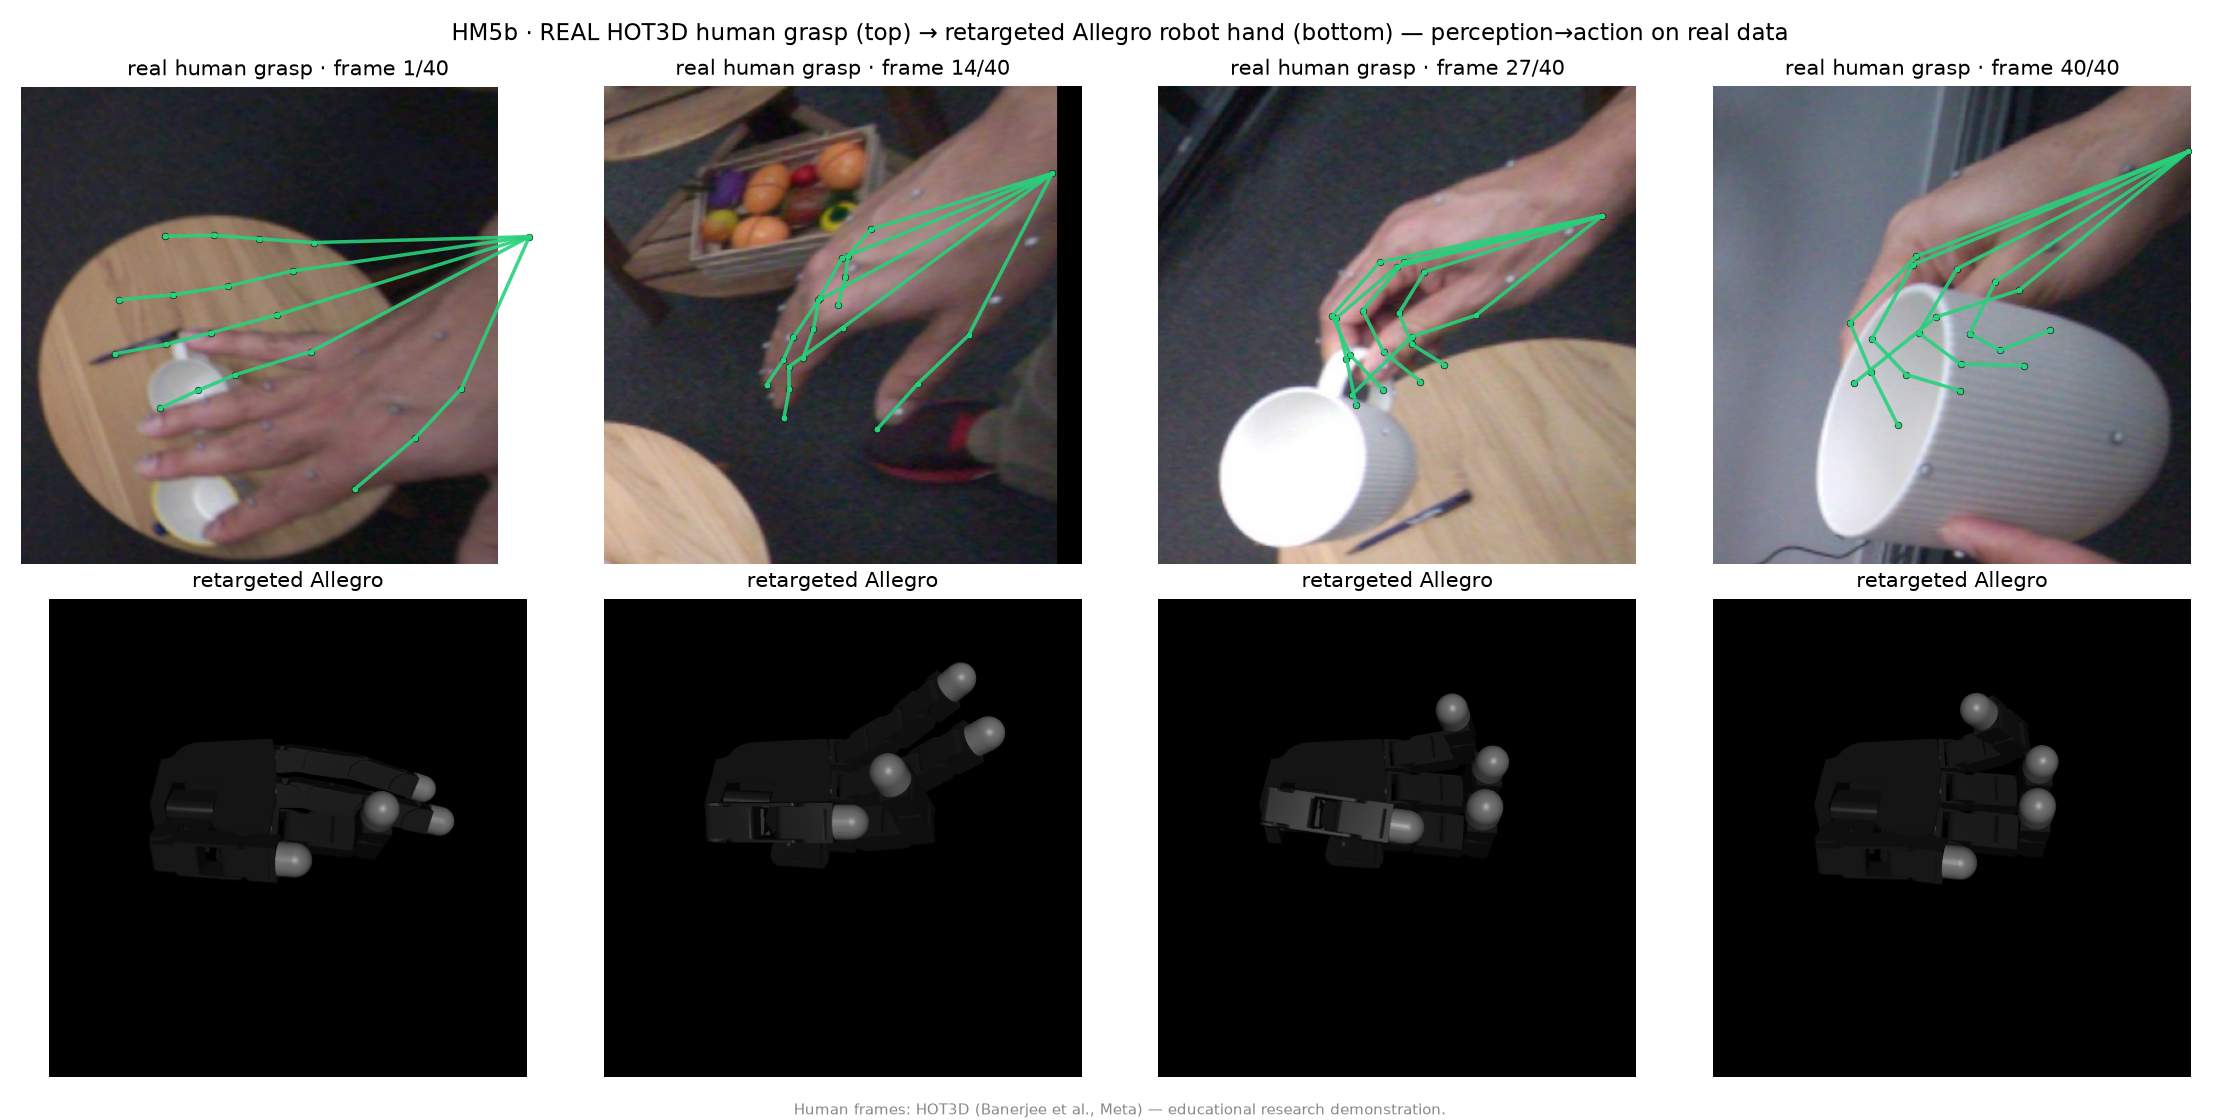
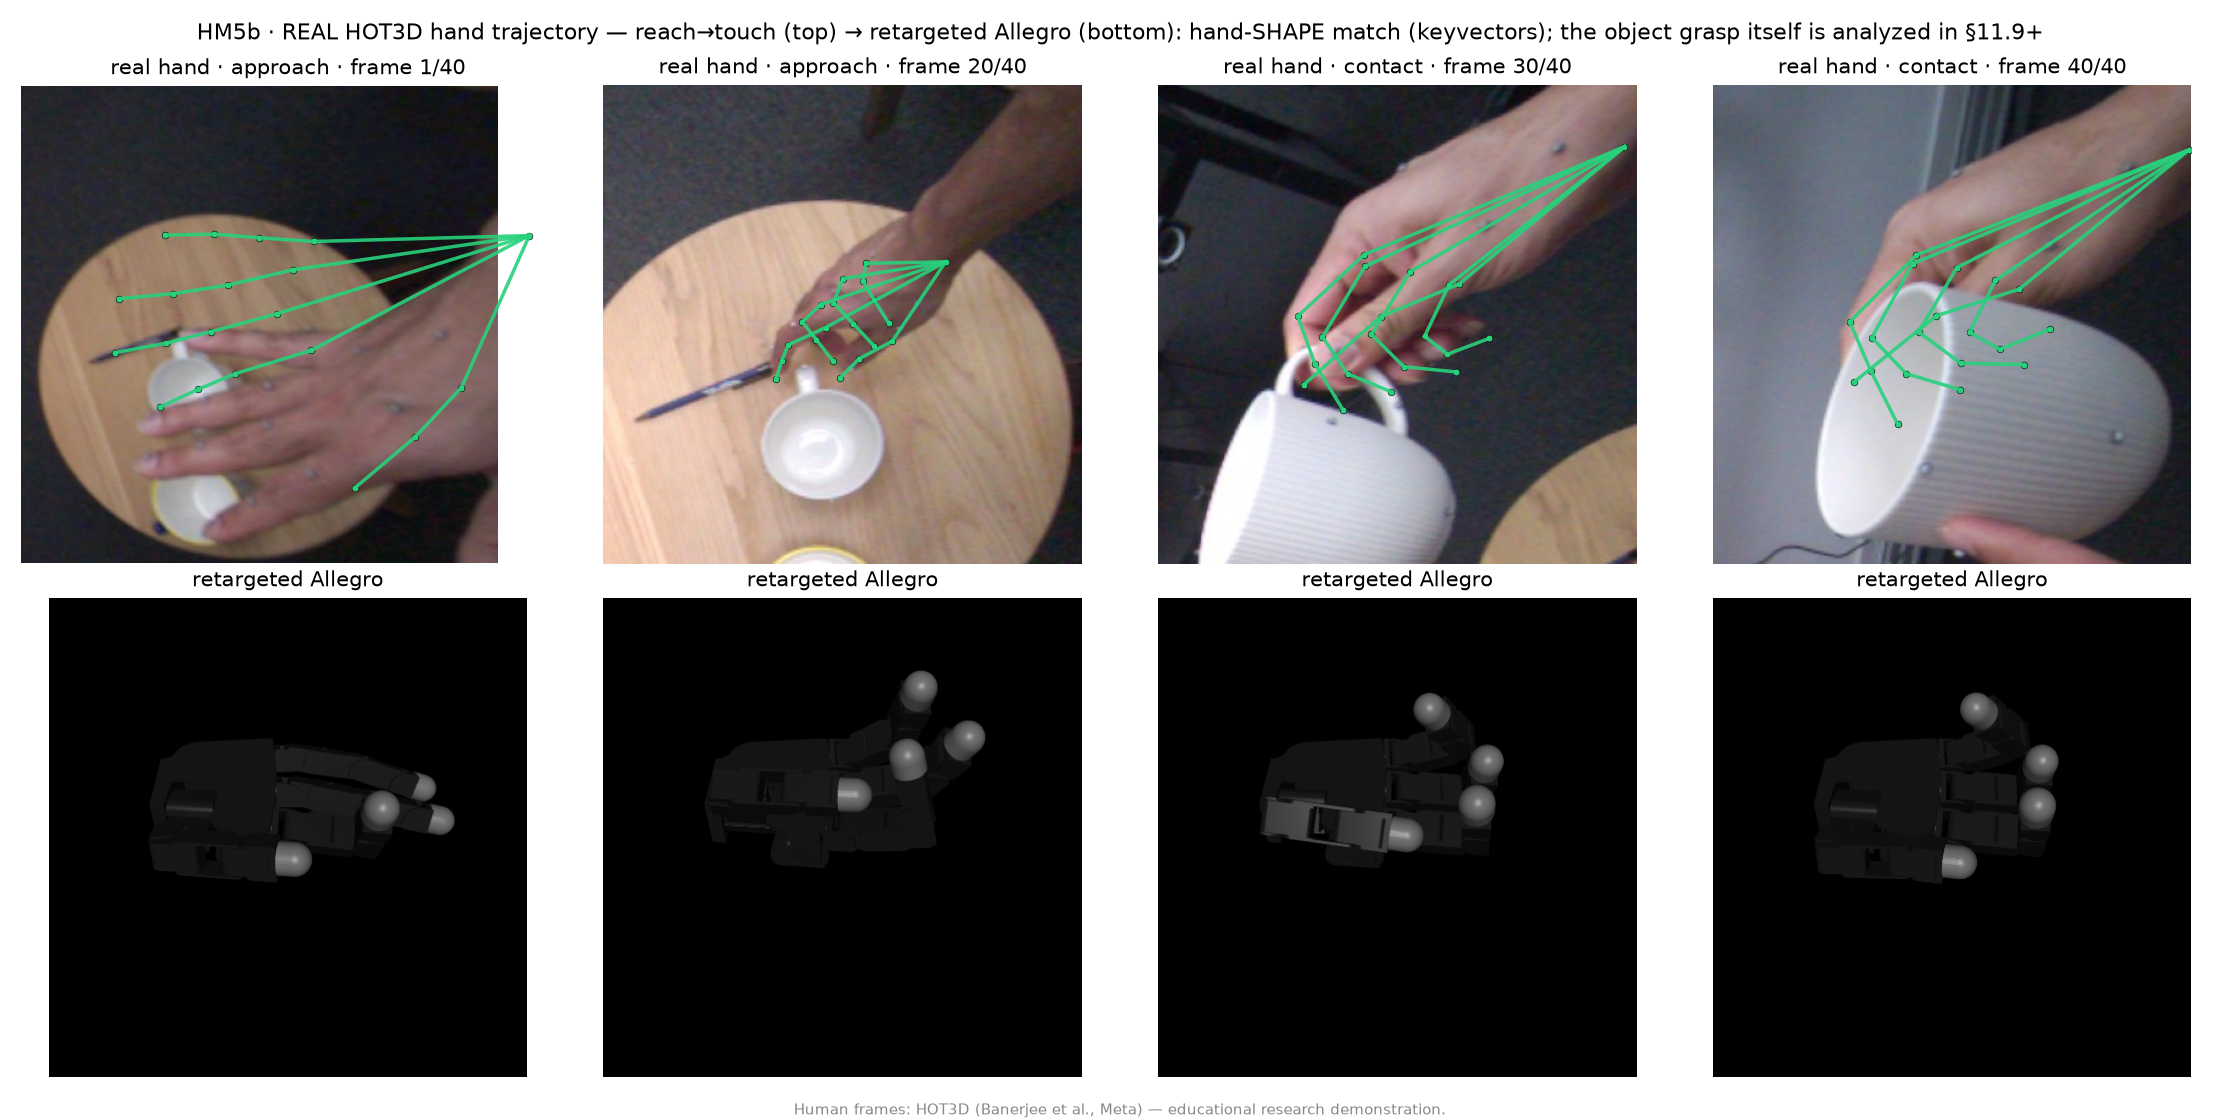
Fix hand↔object penetration in grasp synthesis (§11.8–11.12 honest correction)
The §11.10–11.12 grasps only constrained fingertips + force-closure + self-
collision; the mug was a visual-only geom and the objective never penalized the
whole hand penetrating the object. So the reported ε +0.05 "force-closure" was
inflated by ~2mm of hand-into-mug penetration.

Add the DexGraspNet-style E_pen term (whole-hand non-penetration). Corrected,
penetration-free results (verified visually, not just numerically):
- §11.10/11.11: gap 17mm, ε +0.031 (marginal force-closure), 0mm penetration
- §11.12: arm IK residual ~0, executes ε +0.031 grasp, 0mm penetration
Also reframe §11.8: frames 1–20 are the reach/approach (hand 60→2cm from mug),
not a grasp — it matches hand SHAPE; the object grasp is §11.9+. Added an honest
correction admonition to §11.10.

diff --git a/human_pose.md b/human_pose.md
@@ -473,13 +473,13 @@ mug 하나로는 "이 파이프라인이 그 컵에만 되는 것 아니냐"는 
 
 ### 11.8 실제 human grasp → 로봇 핸드 리타게팅 (HM5 × 실데이터 — 트랙의 종착점)
 
-**왜 이걸 하나 (전 트랙을 하나로 잇는 마무리).** §5(HM5)는 사람 손 → Allegro 로봇 핸드 리타게팅을 했지만 입력이 **합성 MANO open→fist**였다. 이제 §11의 **실제 HOT3D 인간 grasp**(mug를 잡는 실제 손, 40프레임)을 그 리타게팅에 그대로 물려 — **perception(실 egocentric 손 pose) → action(로봇 핸드가 같은 grasp 실행)** 을 실데이터로 닫는다. 이게 JD의 "Human-to-Robot Motion Retargeting"을 실데이터로 증명하는 지점이다.
+**왜 이걸 하나 (전 트랙을 하나로 잇는 마무리).** §5(HM5)는 사람 손 → Allegro 로봇 핸드 리타게팅을 했지만 입력이 **합성 MANO open→fist**였다. 이제 §11의 **실제 HOT3D 손 궤적**(mug로 **접근→접촉**하는 40프레임)을 그 리타게팅에 그대로 물려 — **perception(실 egocentric 손 pose) → action(로봇 핸드가 손 모양을 따라감)** 을 실데이터로 잇는다. 이게 JD의 "Human-to-Robot Motion Retargeting"을 실데이터로 보이는 지점이다. *정직: 이 40프레임은 깔끔한 단일 grasp이 아니라 손이 멀리서(프레임 1–20, mug에서 60→2cm) 다가와 후반(21–40)에 접촉하는 궤적이다 — 여기서 맞추는 건 매 프레임의 **손 모양(keyvector)** 이고, 물체를 실제로 "쥐는" grasp 자체(접촉·force-closure)는 §11.9–11.12에서 다룬다.*
 
 **방법 (HM5 그대로, 입력만 실데이터).** HOT3D 21-랜드마크를 HM5의 **8 keyvector**(검지·중지·약지·엄지의 medial+tip, palm=손목)에 매핑 → 첫 프레임에서 Kabsch 정렬 + 스케일 → 프레임마다 **관절限 bound L-BFGS-B + 자기충돌 패널티 + smoothing**(§5와 동일 파이프라인). 즉 합성 궤적 자리에 **실제 사람 손 궤적**을 꽂았다.
 
 <img src="_static/hm5b_realgrasp.png" alt="real HOT3D human grasp retargeted to Allegro robot hand" style="width:100%;max-width:1280px;border-radius:8px">
 
-*위=실제 HOT3D 인간 손이 mug를 open→grasp(4프레임). 아래=리타게팅된 Allegro가 같은 open→grasp을 따라 손가락을 오므린다.*
+*위=실제 HOT3D 손이 mug로 접근(프레임 1·20)→접촉(30·40). 아래=리타게팅된 Allegro가 같은 손 모양을 따라 손가락을 오므린다.*
 
 | 지표 (실제 grasp 40프레임) | 값 |
 |---|---|
@@ -488,7 +488,7 @@ mug 하나로는 "이 파이프라인이 그 컵에만 되는 것 아니냐"는 
 | joints within limits | **100%** |
 | self-collision | **0 / 40** |
 
-**핵심:** 합성이 아니라 **실제 사람의 grasp**을 로봇 핸드가 따라 하고, 관절限·자기충돌 없이(feasible) 실행 가능한 궤적이 나온다. 잔차 65mm는 §5(합성 58mm)보다 큰데 — 실제 손은 자세 변화가 크고 **5→4 손가락 cross-morphology**가 겹쳐서다(그래서 절대위치가 아닌 keyvector를 맞춤). *이어짐: §11.7의 "어느 손끝이 물체에 닿나"(접촉맵)를 이 리타게팅의 제약으로 넣으면 로봇이 **물체까지 고려한 grasp**을 재현할 수 있다(확장 가능).* 
+**핵심:** 합성이 아니라 **실제 사람 손 궤적**을 로봇 핸드가 따라 하고, 관절限·자기충돌 없이(feasible) 실행 가능한 관절 궤적이 나온다. 잔차 65mm는 §5(합성 58mm)보다 큰데 — 실제 손은 자세 변화가 크고 **5→4 손가락 cross-morphology**가 겹쳐서다(그래서 절대위치가 아닌 keyvector를 맞춤). **여기까지는 손 모양만 맞춘 것** — 로봇 손끝이 실제 mug에 닿거나 안정적으로 쥐는지는 보장되지 않는다. *이어짐: §11.7의 "어느 손끝이 물체에 닿나"(접촉맵)를 제약으로 넣어 §11.9–11.12에서 **물체까지 고려한 grasp**으로 확장한다.* 
 
 **→ 트랙 전체가 하나로 닫힌다:** 실 egocentric 이미지(HM6) → 우리 MANO 3D 복원(§11.4, PA 3.9mm) → 실물체 접촉(§11.7) → **로봇 핸드 실행(§11.8)**. 즉 *sensor → 3D perception → contact → embodied action* 의 spatial-intelligence 파이프라인을 시뮬(HM0–HM5)에서 세우고 실데이터로 관통했다.
 
@@ -536,18 +536,24 @@ $$\min_{q,\;t_{\text{off}}}\; w_{\text{con}}\!\!\sum_{f\in\mathcal C}\big\lVert 
 
 <img src="_static/hm5d_graspsyn.png" alt="grasp synthesis: reachable contact re-planning achieves force-closure" style="width:100%;max-width:1280px;border-radius:8px">
 
-*좌=실제 human grasp(frame 25). 중=§11.9 사람 접촉 복사(손가락이 벌어져 mug를 못 쥠). 우=§11.10 손 42mm 재배치 + 도달 가능 접촉 재계획(빨간•=접촉점) → mug를 감싸 쥔다.*
+*좌=실제 human grasp(frame 25). 중=§11.9 사람 접촉 복사(손가락이 벌어져 mug를 못 쥐고 mesh를 파고듦). 우=§11.10 손 33mm 재배치 + 도달 가능 접촉 재계획(빨간•=접촉점) → 손끝이 표면 밖에서 감싼다.*
+
+```{admonition} 정직한 정정 — "관통" 버그 (2026-08-05)
+:class: warning
+이 절의 초기 버전은 **손끝 3개만** 표면에 붙이고 force-closure만 최적화했다. 그런데 **손바닥·손가락 마디가 물체를 파고드는 것(hand↔object 관통)을 목적함수가 전혀 막지 않았고**, 렌더 속 mug는 시각 전용 geom이라 물리 충돌도 없었다. 그래서 처음 보고한 **ε +0.054는 손이 mug를 ~2mm 파고들어 얻은 부풀린 값**이었다. DexGraspNet식 관통 패널티 $E_{\text{pen}}$(손 body들이 물체 안에 들어가면 벌점)을 추가해 다시 풀었다. 아래 수치는 **관통 0mm를 강제한 물리적으로 유효한** 결과다.
+```
 
 | 지표 (grasp-moment frame, 3지 precision) | §11.9 사람 접촉 복사 | §11.10 grasp 합성 |
 |---|---|---|
-| 손끝 → mug 표면 gap | 31.1 mm | **14.7 mm** |
-| force-closure $\varepsilon$ | −0.121 (**불가 ✘**) | **+0.054 (안정 ✔)** |
+| 손끝 → mug 표면 gap | 31.1 mm | **16.8 mm** |
+| force-closure $\varepsilon$ | −0.121 (**불가 ✘**) | **+0.031 (안정 ✔, 여유는 작음)** |
+| **물체 관통** | 1.7 mm | **0.0 mm** |
 | self-collision | 0 | 0 |
-| 손 재배치량 $\lVert t_{\text{off}}\rVert$ | — | 42 mm |
+| 손 재배치량 $\lVert t_{\text{off}}\rVert$ | — | 33 mm |
 
-**핵심:** 사람 접촉점을 복사하면 gap 31mm에 force-closure도 **실패**(ε<0, 못 잡음). 반면 **손을 42mm 재배치하고 접촉점을 로봇에 맞게 다시 고르면** gap이 15mm로 줄고 ε가 **양수로 바뀌어 실제로 잡을 수 있는 grasp**이 된다 — 무충돌 유지. §11.9가 증명한 벽을 §11.10이 **넘는 방법**(hand placement + contact re-planning)을 실데이터 물체에서 보여준 것이다.
+**핵심:** 사람 접촉점을 복사하면 gap 31mm·force-closure **실패**(ε −0.12)에 물체까지 파고든다. 반면 **손을 33mm 재배치하고 접촉점을 로봇에 맞게 다시 고르고 관통을 금지하면** gap 17mm·ε가 **양수(+0.031)로 바뀌어 물리적으로 유효한(관통 0mm) 잡을 수 있는 grasp**이 된다. §11.9가 증명한 벽을 §11.10이 **넘는 방법**(hand placement + contact re-planning + 비관통)을 실데이터 물체에서 보여준 것.
 
-*정직: 잔차 15mm는 3지·고정 손가락 길이·곡면 mug의 한계(완벽히 표면에 붙진 않음)지만 force-closure는 성립한다. 여기선 손 배치를 3-DoF 병진으로만 근사했다(회전·arm IK 추가하면 더 개선). 이것이 GraspIt·DexGraspNet·contact-GraspNet 계열 grasp 합성의 축소판이다.*
+*정직: ε +0.031은 **양수지만 여유가 작다** — force-closure 경계 바로 위의 marginal grasp이다(관통을 허용했을 때의 +0.054는 허수였다). 잔차 gap 17mm는 3지·고정 손가락 길이·곡면 mug의 한계. 손 배치는 3-DoF 병진 근사(§11.11에서 회전까지, §11.12에서 arm IK). 이것이 GraspIt·DexGraspNet·contact-GraspNet 계열 grasp 합성의 축소판이다.*
 
 **→ 트랙의 완결:** HM5(합성 retarget) → §11.8(실 grasp retarget) → §11.9(접촉 제약 + 벽 발견) → **§11.10(grasp 합성으로 벽 돌파)**. perception→action이 다른 morphology로 넘어갈 때 필요한 것 — 3D 인식, 접촉 이해, 도달성·안정성 최적화 — 을 실데이터로 관통했다.
 
@@ -555,18 +561,18 @@ $$\min_{q,\;t_{\text{off}}}\; w_{\text{con}}\!\!\sum_{f\in\mathcal C}\big\lVert 
 
 **왜 이걸 하나 (§11.10을 더 밀어보기).** §11.10은 손을 3-DoF **병진**으로만 옮겼다. 자연스러운 다음 수는 **손목 회전까지** 더한 full 6-DoF 손 배치다 — 손이 물체에 맞게 자세를 잡으면 더 좋은 grasp이 나올 것 같았다. 그래서 손가락 관절 $q$ + 손 배치 $(t_{\text{off}}, r_{\text{off}})$(병진+축각 회전, 물체 중심 기준)를 함께 최적화하고, 여러 초기 손목 방향에서 multi-start로 후보를 모았다.
 
-**그런데 예상과 다른 것을 발견했다 — "무엇을 최적화하느냐"가 핵심이었다.** 회전을 자유롭게 두고 **접촉 gap을 최소화**하면 손끝이 물체에 더 바짝 붙는다(gap 14→**11mm**). 그런데 그렇게 고른 grasp은 **force-closure ε가 음수(−0.003)로 떨어져 실제로는 못 잡는다** — 손을 28° 기울여 접촉점들이 한쪽으로 몰렸기 때문이다. 반대로 같은 후보들을 **force-closure ε로 정렬**하면 gap은 조금 크지만(14mm) **ε=+0.054로 안정적으로 잡는 grasp**이 선택된다.
+**발견 — "무엇을 최적화하느냐"가 핵심이었다** (모든 후보는 관통 0mm 강제). 회전을 자유롭게 두고 **접촉 gap을 최소화**하면 손끝이 더 바짝 붙지만(gap 14mm) force-closure 여유가 작다(ε +0.013). 같은 후보를 **force-closure ε로 정렬**하면 gap은 조금 크지만(17mm) **ε +0.031로 2.3배 더 안정적인 grasp**이 선택된다. 즉 가장 바짝 붙는 게 가장 안정적인 게 아니다.
 
 <img src="_static/hm5e_6dof.png" alt="6-DoF grasp synthesis: ranking by gap vs by force-closure gives different grasps" style="width:100%;max-width:1280px;border-radius:8px">
 
-*좌=실제 grasp. 중=6-DoF 후보 중 **gap 최소**(가장 바짝 붙지만 ε<0, 불안정 ✘). 우=같은 후보 중 **force-closure ε 최대**(gap은 크지만 안정 ✔). 눈으로는 둘이 비슷해 보이지만 안정성은 정반대다.*
+*좌=실제 grasp. 중=6-DoF 후보 중 **gap 최소**(가장 바짝, 안정 여유 작음). 우=같은 후보 중 **force-closure ε 최대**(gap은 크지만 가장 안정). 둘 다 관통 0mm·force-closure ✔지만 안정 여유는 우측이 2.3배.*
 
-| 6-DoF 후보 (8개, grasp-moment frame) | gap | force-closure ε | 손 회전 |
+| 6-DoF 후보 (8개, 관통 0mm, grasp-moment frame) | gap | force-closure ε | 손 회전 |
 |---|---|---|---|
-| **gap 최소**로 선택 (가장 바짝) | **10.9 mm** | −0.003 (**못 잡음 ✘**) | 28° |
-| **force-closure ε 최대**로 선택 | 14.4 mm | **+0.054 (안정 ✔)** | 0° |
+| **gap 최소**로 선택 (가장 바짝) | **14.3 mm** | +0.013 (✔, 여유 작음) | 15° |
+| **force-closure ε 최대**로 선택 | 16.8 mm | **+0.031 (✔, 가장 안정)** | 0° |
 
-**핵심 교훈 두 가지.** ① **접촉 거리(gap)를 목적함수로 쓰면 안 된다** — 가장 바짝 붙는 grasp이 가장 불안정할 수 있다(눈으로 구분 안 됨, 오직 정량 지표 ε만이 구분). 그래서 grasp planner는 접촉 근접이 아니라 **analytic grasp metric(Ferrari–Canny 등)** 을 최적화한다. ② 이 mug·3지 grasp에서는 **손목 회전이 안정성을 높이지 못했다** — 안정 최적 grasp은 회전 0°(즉 §11.10의 병진만). 즉 **placement DoF를 늘리는 것 자체보다 "올바른 목적함수"가 더 중요**했고, grasp 품질은 결국 grasp 타입·손 kinematics에 의해 위에서 제한된다.
+**핵심 교훈 두 가지.** ① **접촉 거리(gap)를 목적함수로 쓰면 안 된다** — 가장 바짝 붙는 grasp이 안정성이 더 낮을 수 있다(눈으로 구분 안 됨, 오직 ε만이 구분). 그래서 grasp planner는 접촉 근접이 아니라 **analytic grasp metric(Ferrari–Canny 등)** 을 최적화한다. ② 이 mug·3지 grasp에서는 **손목 회전이 안정성을 높이지 못했다** — 최고 ε는 회전 0°(즉 §11.10의 병진만). 즉 **placement DoF를 늘리는 것 자체보다 "올바른 목적함수"가 더 중요**했고, grasp 품질(ε≈+0.03, marginal)은 결국 grasp 타입·손 kinematics·물체 크기에 의해 위에서 제한된다.
 
 *정직: 6-DoF가 3-DoF보다 "더 강한 grasp"을 줄 거라 기대했지만, 실제로는 회전이 gap만 줄이고 ε는 오히려 낮췄다. 이 반례가 이 트랙에서 가장 값진 교훈 중 하나 — **최적화는 "무엇을 재느냐"가 절반이다.** 손 배치를 6-DoF로 열되 반드시 grasp-quality로 골라야 한다. (arm IK로 base까지 열면 더 큰 개선 여지가 있지만, 목적함수 원칙은 동일.)*
 
@@ -591,7 +597,7 @@ $$e=\begin{bmatrix} x^\star_{\text{pos}}-x_{\text{pos}}\\[2pt] \log\!\big(R^\sta
 | IK 위치 잔차 | **≈ 0.0 mm** (254mm에서 수렴) |
 | IK 자세 잔차 | **0.0°** |
 | 팔 within joint limits | **100%** |
-| 실행된 grasp | gap 14.4mm · force-closure ε +0.054 ✔ |
+| 실행된 grasp | gap 16.8mm · force-closure ε +0.031 ✔ · **물체 관통 0.0mm** |
 
 **핵심:** 7-DoF DLS IK가 팔 관절을 움직여 손바닥을 grasp 목표 자세에 **잔차 0**으로 가져다 놓고(관절限 100% 준수), 그 상태에서 손가락이 §11.11 grasp을 실행해 mug를 **force-closure로 쥔다.** 즉 §11.9에서 발견한 "손바닥 고정" 벽이 **실제 팔로 완전히 사라진다** — 팔이 손을 어디로든 가져갈 수 있으므로.
 
